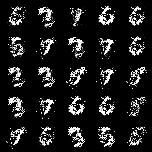
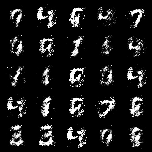
adjust params

diff --git a/main.py b/main.py
@@ -45,7 +45,7 @@ if __name__ == "__main__":
     os.makedirs(gen_images_dir, exist_ok=True)
     image_shape = (channel, image_width, image_width)
     L_epsilon = 0.01
-    sensitivity = 1.0
+    sensitivity = 2.0
 
     # Get data
     transform = transforms.Compose(
@@ -77,7 +77,7 @@ if __name__ == "__main__":
         # pretrain discriminator
         pretrain_discriminator(D, data_loader=dataloader, epochs=5, batch_size=batch_size, noise_dim=noise_dim, cuda=cuda)
         # add hook for discriminator
-        global dynamic_hook
+        utils.dynamic_hook = utils.dummy_hook
         D.model[0].register_backward_hook(utils.create_dp_hook)
 
     # differential privacy
@@ -109,6 +109,8 @@ if __name__ == "__main__":
             # no hook
             if args.config_model == 3:
                 dynamic_hook = utils.dummy_hook
+                for p in D.parameters():
+                    p.requires_grad = True
 
             optimizer_D.zero_grad()
             z = torch.randn((bs, noise_dim))

diff --git a/pretrain_D.py b/pretrain_D.py
@@ -6,8 +6,8 @@ def pretrain_discriminator(D, data_loader, epochs, batch_size, noise_dim, cuda):
     PreG = Generator()
     if cuda:
         PreG = PreG.cuda()
-    optimizerD = optim.Adam(D.parameters(), lr=1e-4)
-    optimizerG = optim.Adam(PreG.parameters(), lr=1e-4)
+    optimizerD = optim.Adam(D.parameters(), lr=1e-4, betas=(0.5, 0.9))
+    optimizerG = optim.Adam(PreG.parameters(), lr=1e-4, betas=(0.5, 0.9))
 
     for epoch in range(epochs):
         for i, (real_imgs, _) in enumerate(data_loader):

diff --git a/config.py b/config.py
@@ -20,13 +20,10 @@ config_dp_wgan_gp = {
 }
 
 config_gs_wgan = {
-    'lr_D': 5e-4,
-    'lr_G': 2e-4,
+    'lr_D': 5e-5,
+    'lr_G': 5e-5,
     'gen_images_dir': "./gen_images_gswgan",
     'num_workers': 0,
     'total_epochs': 35,
-    'batch_size': 128,
-    'delta': 1e-4,
-    'noise_multiplier': 0.3,
-    'max_grad_norm': 10.0
+    'batch_size': 128
 }
